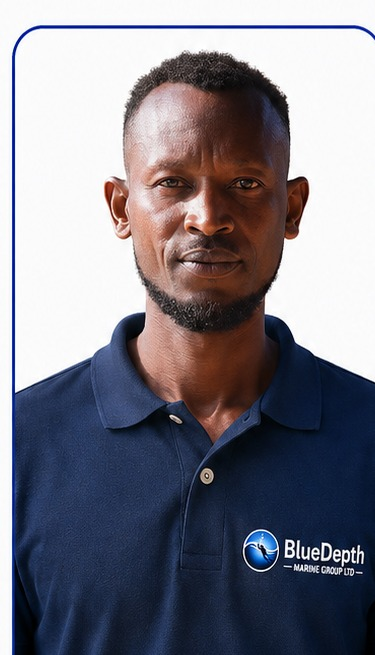
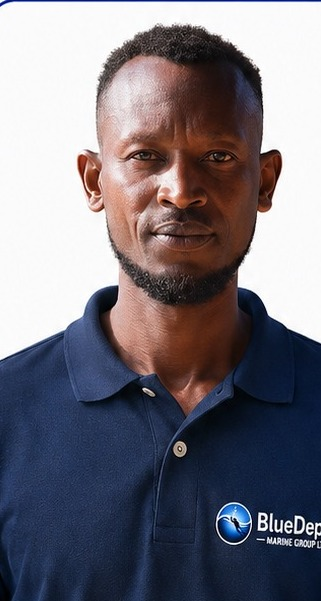
Fix team photo border artifact, add roles to all team cards
- Crop out the baked-in rounded-border frame from the 8 branded staff photos; it was bleeding into the circular avatar crop as a stray blue line/arc since the portrait-shaped source didn't get cropped horizontally under object-fit: cover
- Label the 6 "Our Team" members as Professional Divers so the grid doesn't read as unfinished next to the titled Leadership cards
- Enlarge staff card photos, add role text, tighten hover/shadow treatment for a more premium feel
- Switch "Our Team" grid to 3 columns to match the Leadership row's rhythm

diff --git a/index.html b/index.html
@@ -191,26 +191,32 @@
       <div class="staff-card tilt">
         <img src="assets/team-niyonkuru-didier.jpg" alt="Niyonkuru Didier" loading="lazy" />
         <h4>Niyonkuru Didier</h4>
+        <span class="team-role">Professional Diver</span>
       </div>
       <div class="staff-card tilt">
         <img src="assets/team-ntirenganya-shadadi.jpg" alt="Ntirenganya Shadadi" loading="lazy" />
         <h4>Ntirenganya Shadadi</h4>
+        <span class="team-role">Professional Diver</span>
       </div>
       <div class="staff-card tilt">
         <img src="assets/team-mugiraneza-amani.jpg" alt="Mugiraneza Amani" loading="lazy" />
         <h4>Mugiraneza Amani</h4>
+        <span class="team-role">Professional Diver</span>
       </div>
       <div class="staff-card tilt">
         <img src="assets/team-usanase-jean-aime.jpg" alt="Usanase Jean Aime" loading="lazy" />
         <h4>Usanase Jean Aime</h4>
+        <span class="team-role">Professional Diver</span>
       </div>
       <div class="staff-card tilt">
         <img src="assets/team-umuhoza-afrodis.jpg" alt="Umuhoza Afrodis" loading="lazy" />
         <h4>Umuhoza Afrodis</h4>
+        <span class="team-role">Professional Diver</span>
       </div>
       <div class="staff-card tilt">
         <img src="assets/team-tuyisenge-marcel.jpg" alt="Tuyisenge Marcel" loading="lazy" />
         <h4>Tuyisenge Marcel</h4>
+        <span class="team-role">Professional Diver</span>
       </div>
     </div>
   </div>

diff --git a/style.css b/style.css
@@ -702,28 +702,29 @@ ul { list-style: none; }
 
 .staff-grid {
   display: grid;
-  grid-template-columns: repeat(6, 1fr);
-  gap: 20px;
+  grid-template-columns: repeat(3, 1fr);
+  gap: 24px;
 }
 .staff-card {
   background: var(--light);
   border: 1px solid rgba(0,31,77,0.06);
-  border-radius: 16px;
-  padding: 20px 14px 18px;
+  border-radius: 18px;
+  padding: 28px 20px 24px;
   text-align: center;
   transition: var(--transition);
 }
-.staff-card:hover { box-shadow: var(--shadow); transform: translateY(-4px); }
+.staff-card:hover { box-shadow: var(--shadow-lg); transform: translateY(-4px); border-color: rgba(0,119,204,0.2); }
 .staff-card img {
-  width: 76px; height: 76px;
+  width: 96px; height: 96px;
   border-radius: 50%;
   object-fit: cover;
   object-position: top center;
-  margin: 0 auto 12px;
+  margin: 0 auto 16px;
   border: 3px solid white;
   box-shadow: var(--shadow);
 }
-.staff-card h4 { font-family: var(--font-head); font-size: 0.85rem; font-weight: 700; color: var(--navy); line-height: 1.3; }
+.staff-card h4 { font-family: var(--font-head); font-size: 0.98rem; font-weight: 700; color: var(--navy); line-height: 1.3; }
+.staff-card .team-role { margin: 4px 0 0; font-size: 0.8rem; }
 
 @media (max-width: 1024px) {
   .leadership-grid { grid-template-columns: 1fr; }
